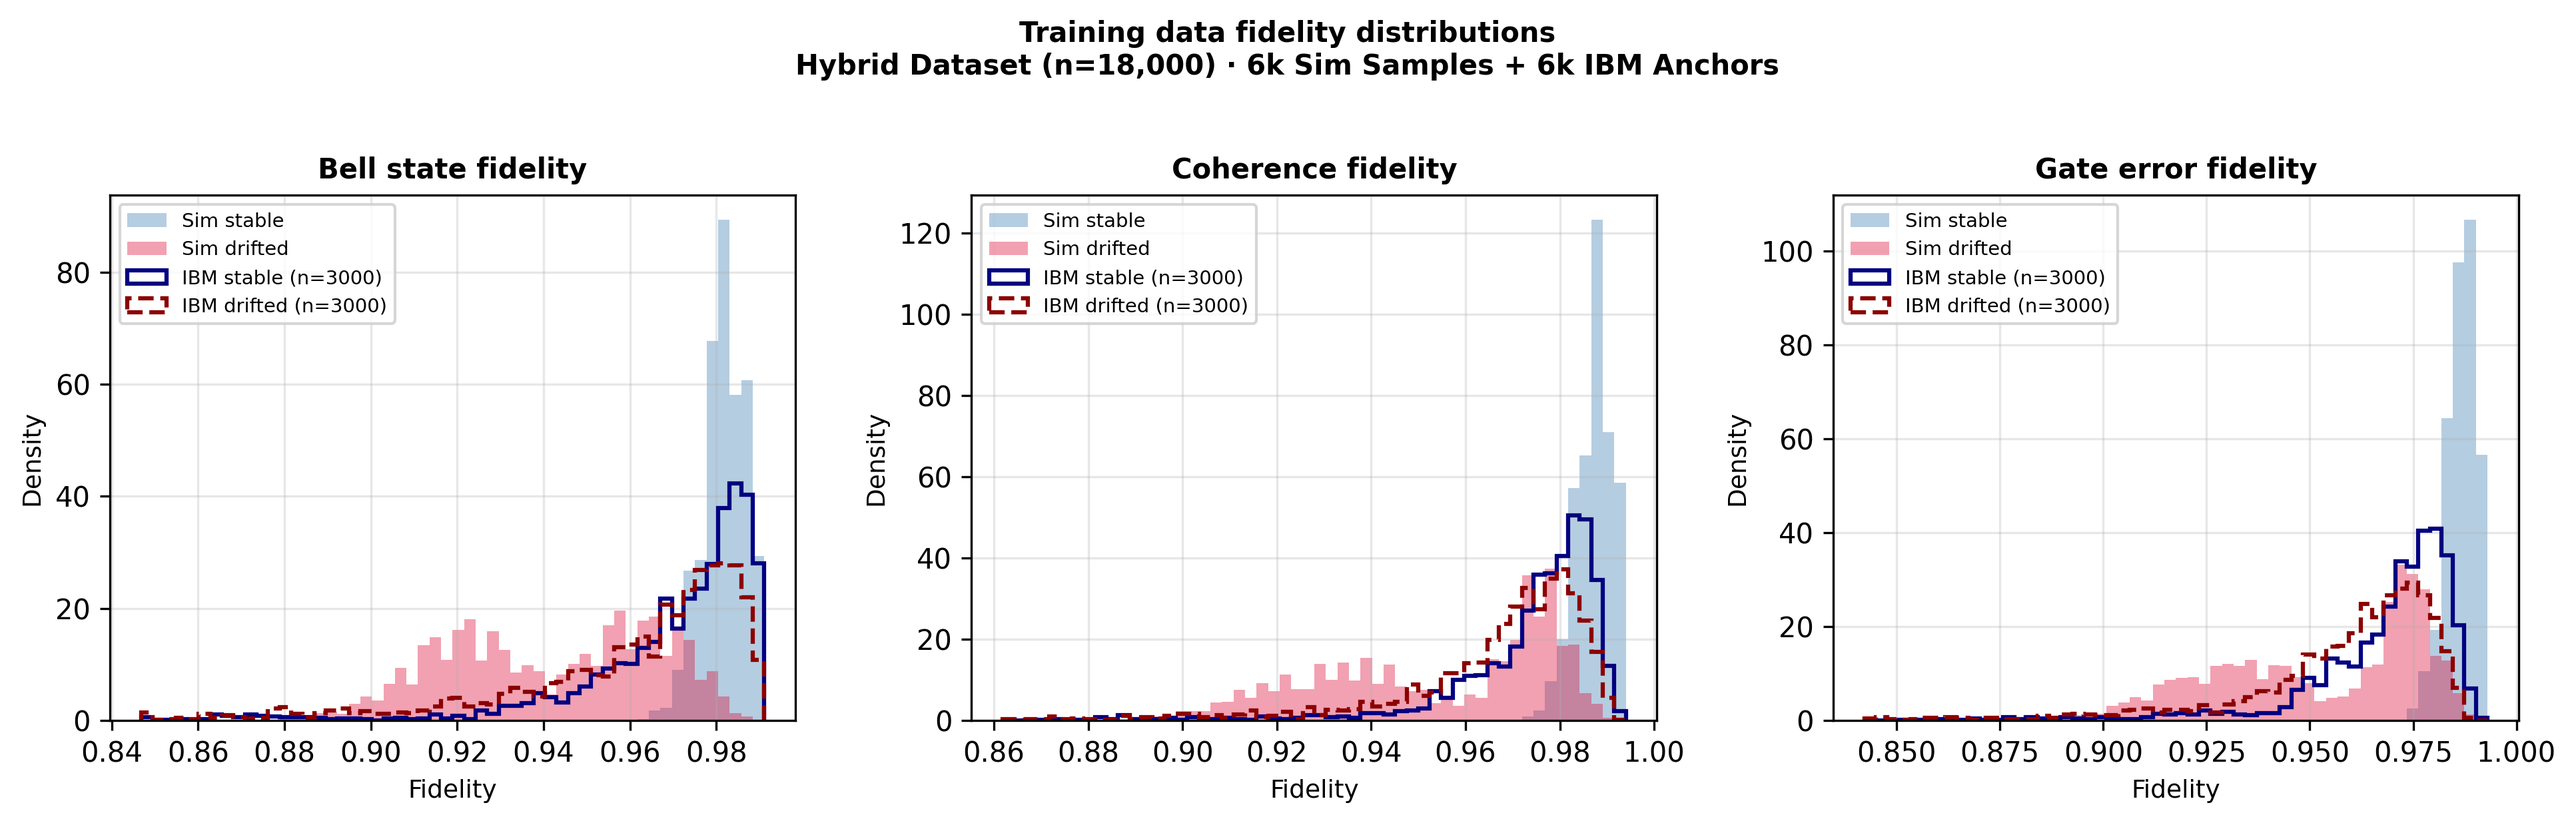
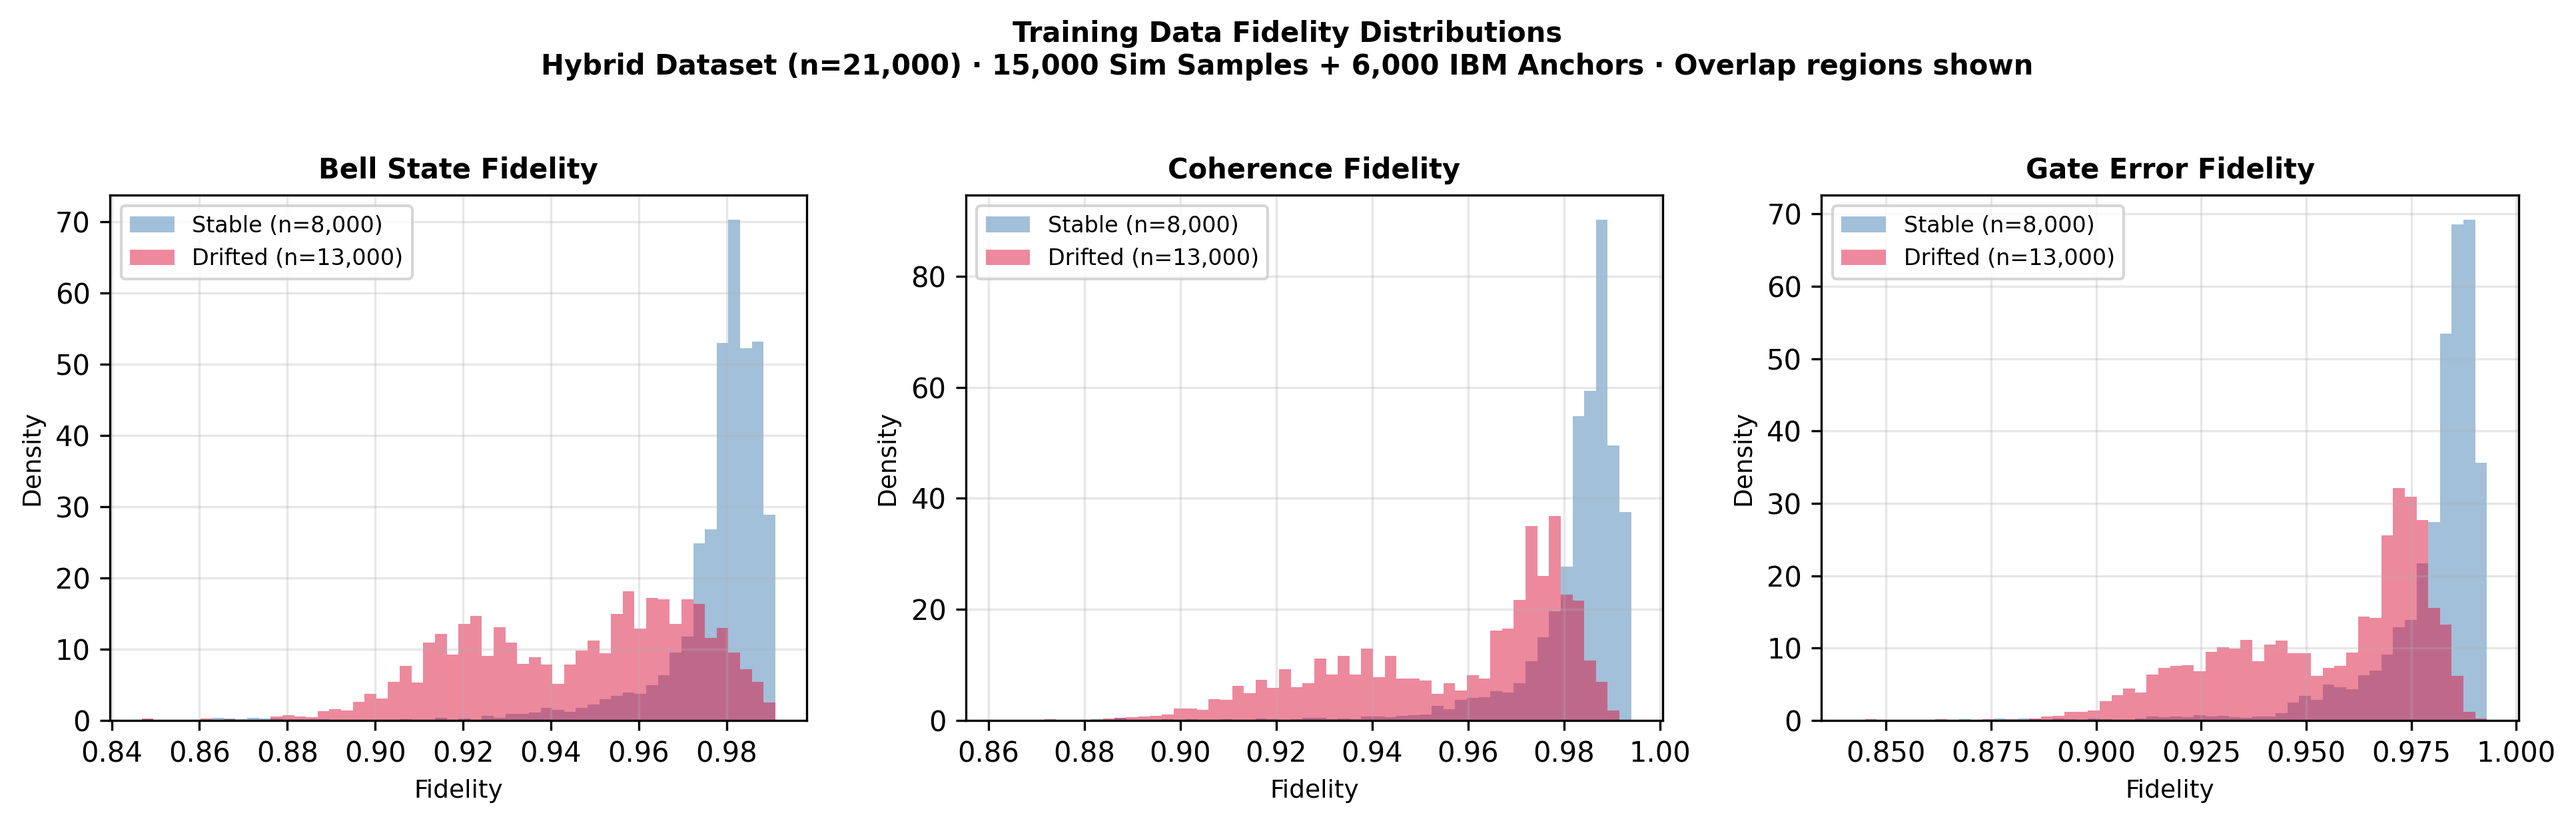
Figures editing

diff --git a/2_label_data.py b/2_label_data.py
@@ -1,17 +1,13 @@
-# 2_label_data.py — Quantum Canary Prototype 2
+# 2_label_data.py — Quantum Canary 2
 # ─────────────────────────────────────────────────────────────────────────────
 # PHYSICS-INFORMED HYBRID DATASET CONSTRUCTION
 #
-# DATASET DESIGN RATIONALE:
+# Stable class  (label=0): sim stable   + IBM extreme stable anchors
+# Drifted class (label=1): sim drifted  + IBM extreme drifted anchors
 #
-#   Stable class  (label=0): 6,000 sim stable + 3,000 IBM extreme stable
-#   Drifted class (label=1): 6,000 sim drifted + 3,000 IBM extreme drifted
-#
-#   Total Dataset: 18,000 rows.
-#
-#   STRATEGY: 
-#     We keep the original 6k/6k simulation samples from 1e_pull_data.py.
-#     We then add 3k IBM snapshots for each class to ground the model.
+# Sim data: 15,000 rows (5k stable, 5k borderline, 5k drifted) from 1e_pull_data.py
+# IBM anchors: up to 3,000 stable + 3,000 drifted from all_backends_raw.csv
+# Total: ~21,000 rows
 # ─────────────────────────────────────────────────────────────────────────────
 
 import pandas as pd
@@ -36,7 +32,7 @@ df['t_sx_ns'] = df['t_sx_ns'].fillna(30.0)
 df['t_x_ns']  = df['t_x_ns'].fillna(30.0)
 df['t_cz_ns'] = df['t_cz_ns'].fillna(75.0)
 df['x_error'] = df['x_error'].fillna(df['sx_error'])
-df.loc[df['cz_error'] > 0.5, 'cz_error'] = np.nan 
+df.loc[df['cz_error'] > 0.5, 'cz_error'] = np.nan
 
 # ── 3. 30-DAY ROLLING BASELINE PER QUBIT ─────────────────────────────────────
 print("Computing 30-day rolling baselines...")
@@ -87,33 +83,31 @@ df['F_coherence'] = ((1-df['sx_error'])**20 * (1-df['readout_error']) * 0.5 * (1
 t_gate = 20.0 * df['t_x_ns']
 df['F_gate'] = ((1-df['x_error'])**20 * (1-df['readout_error']) * np.exp(-t_gate/T1_ns) * np.exp(-t_gate/T2_ns)).clip(0,1)
 
-# ── 7. EXTRACT ANCHORS (3,000 STABLE, 3,000 DRIFTED) ──────────────────────────
+# ── 7. EXTRACT ANCHORS ────────────────────────────────────────────────────────
 N_ANCHORS = 3000
 
-# Get IBM Stable
-ibm_stable_pool = df[df['zone']=='extreme_stable']
-n_s = min(N_ANCHORS, len(ibm_stable_pool))
-ibm_stable_sel = ibm_stable_pool.sort_values('pct_T1_dev').head(n_s).copy()
+ibm_stable_pool  = df[df['zone']=='extreme_stable']
+n_s              = min(N_ANCHORS, len(ibm_stable_pool))
+ibm_stable_sel   = ibm_stable_pool.sort_values('pct_T1_dev').head(n_s).copy()
 ibm_stable_sel['drifted'] = 0
 
-# Get IBM Drifted
 ibm_drifted_pool = df[df['zone']=='extreme_drifted']
-n_d = min(N_ANCHORS, len(ibm_drifted_pool))
-ibm_drifted_sel = ibm_drifted_pool.sort_values('pct_T1_drop', ascending=False).head(n_d).copy()
+n_d              = min(N_ANCHORS, len(ibm_drifted_pool))
+ibm_drifted_sel  = ibm_drifted_pool.sort_values('pct_T1_drop', ascending=False).head(n_d).copy()
 ibm_drifted_sel['drifted'] = 1
 
-# ── 8. LOAD SIMULATION DATA (6,000 EACH - AS GENERATED) ──────────────────────
-sim = pd.read_csv('data/sim_data.csv')
+# ── 8. LOAD SIMULATION DATA ───────────────────────────────────────────────────
+sim   = pd.read_csv('data/sim_data.csv')
 s_sim = sim[sim['drifted']==0].copy()
 d_sim = sim[sim['drifted']==1].copy()
 
 # ── 9. COMBINE (HYBRID DATASET) ───────────────────────────────────────────────
 ibm_feat = ['F_bell', 'F_coherence', 'F_gate', 'drifted']
 combined = pd.concat([
-    s_sim[ibm_feat],             # 6,000 sim stable
-    ibm_stable_sel[ibm_feat],    # 3,000 IBM stable
-    d_sim[ibm_feat],             # 6,000 sim drifted
-    ibm_drifted_sel[ibm_feat]    # 3,000 IBM drifted
+    s_sim[ibm_feat],
+    ibm_stable_sel[ibm_feat],
+    d_sim[ibm_feat],
+    ibm_drifted_sel[ibm_feat]
 ], ignore_index=True)
 
 combined = combined.sample(frac=1, random_state=42).reset_index(drop=True)
@@ -122,39 +116,69 @@ combined = combined.sample(frac=1, random_state=42).reset_index(drop=True)
 combined.to_csv('data/features_data.csv', index=False)
 df.to_csv('data/ibm_calibration_labeled.csv', index=False)
 
-train_idx, temp_idx = train_test_split(np.arange(len(combined)), test_size=0.3, stratify=combined['drifted'], random_state=42)
-val_idx, test_idx   = train_test_split(temp_idx, test_size=0.5, stratify=combined.iloc[temp_idx]['drifted'], random_state=42)
+train_idx, temp_idx = train_test_split(
+    np.arange(len(combined)), test_size=0.3,
+    stratify=combined['drifted'], random_state=42
+)
+val_idx, test_idx = train_test_split(
+    temp_idx, test_size=0.5,
+    stratify=combined.iloc[temp_idx]['drifted'], random_state=42
+)
 with open('data/split_indices.json', 'w') as f:
-    json.dump({"train": train_idx.tolist(), "val": val_idx.tolist(), "test": test_idx.tolist()}, f)
+    json.dump({"train": train_idx.tolist(),
+               "val":   val_idx.tolist(),
+               "test":  test_idx.tolist()}, f)
 
 # ── 11. FIGURES ───────────────────────────────────────────────────────────────
 print("Generating figures...")
 
+# Merge sim + IBM anchors into unified stable/drifted pools
+all_stable  = pd.concat([s_sim[ibm_feat],       ibm_stable_sel[ibm_feat]],  ignore_index=True)
+all_drifted = pd.concat([d_sim[ibm_feat],        ibm_drifted_sel[ibm_feat]], ignore_index=True)
+all_stable  = all_stable[all_stable['drifted']  == 0]
+all_drifted = all_drifted[all_drifted['drifted'] == 1]
+
+n_stable  = len(all_stable)
+n_drifted = len(all_drifted)
+n_total   = len(combined)
+
 fig, axes = plt.subplots(1, 3, figsize=(13, 4))
 feats = ['F_bell', 'F_coherence', 'F_gate']
-flabs = ['Bell state fidelity', 'Coherence fidelity', 'Gate error fidelity']
+flabs = ['Bell State Fidelity', 'Coherence Fidelity', 'Gate Error Fidelity']
 
 for ax, feat, lab in zip(axes, feats, flabs):
-    bins = np.linspace(combined[feat].quantile(0.01), combined[feat].quantile(0.99), 55)
-    
-    ax.hist(s_sim[feat], bins=bins, alpha=0.4, color='steelblue', label='Sim stable', density=True)
-    ax.hist(d_sim[feat], bins=bins, alpha=0.4, color='crimson', label='Sim drifted', density=True)
-    
-    ax.hist(ibm_stable_sel[feat], bins=bins, color='navy', label=f'IBM stable (n={len(ibm_stable_sel)})', 
-            density=True, histtype='step', linewidth=1.5)
-    ax.hist(ibm_drifted_sel[feat], bins=bins, color='darkred', label=f'IBM drifted (n={len(ibm_drifted_sel)})', 
-            density=True, histtype='step', linewidth=1.5, linestyle='--')
+    bins = np.linspace(combined[feat].quantile(0.01),
+                       combined[feat].quantile(0.99), 55)
+
+    # Stable — light blue filled
+    ax.hist(all_stable[feat],  bins=bins, alpha=0.5, color='steelblue',
+            density=True, label=f'Stable (n={n_stable:,})')
+
+    # Drifted — light red filled
+    ax.hist(all_drifted[feat], bins=bins, alpha=0.5, color='crimson',
+            density=True, label=f'Drifted (n={n_drifted:,})')
 
     ax.set_title(lab, fontsize=10, fontweight='bold')
-    ax.set_xlabel('Fidelity', fontsize=9); ax.set_ylabel('Density', fontsize=9)
-    ax.legend(fontsize=7); ax.grid(alpha=0.3)
+    ax.set_xlabel('Fidelity', fontsize=9)
+    ax.set_ylabel('Density',  fontsize=9)
+    ax.legend(fontsize=8)
+    ax.grid(alpha=0.3)
 
-plt.suptitle('Training data fidelity distributions\nHybrid Dataset (n=18,000) · 6k Sim Samples + 6k IBM Anchors', fontsize=10, fontweight='bold', y=1.02)
+n_sim_total = len(sim)
+n_ibm_total = n_s + n_d
+plt.suptitle(
+    f'Training Data Fidelity Distributions\n'
+    f'Hybrid Dataset (n={n_total:,}) · {n_sim_total:,} Sim Samples + {n_ibm_total:,} IBM Anchors '
+    f'· Overlap regions shown',
+    fontsize=10, fontweight='bold', y=1.02
+)
 plt.tight_layout()
 plt.savefig('figures/fig_feature_distributions.png', dpi=300, bbox_inches='tight')
 plt.close()
+print("  ✓ figures/fig_feature_distributions.png")
 
 print(f"\nLabeling Complete.")
-print(f"  Stable  : {len(s_sim)} Sim + {len(ibm_stable_sel)} IBM")
-print(f"  Drifted : {len(d_sim)} Sim + {len(ibm_drifted_sel)} IBM")
-print(f"  Total   : {len(combined):,}")
+print(f"  Stable  : {len(s_sim):,} Sim + {len(ibm_stable_sel):,} IBM = {n_stable:,}")
+print(f"  Drifted : {len(d_sim):,} Sim + {len(ibm_drifted_sel):,} IBM = {n_drifted:,}")
+print(f"  Total   : {n_total:,}")
+print(f"\n  NEXT: python 3_validate_data.py")

diff --git a/6_evaluate.py b/6_evaluate.py
@@ -150,7 +150,7 @@ print("  ✓ figures/fig_confusion_matrix.png")
 
 # ── 8. AUC COMPARISON ─────────────────────────────────────────────────────────
 fig, ax = plt.subplots(figsize=(5, 4))
-models_ = ['Threshold\nClassifier', 'Neural Canary\nMLP Ensemble']
+models_ = ['Threshold\nClassifier', 'Quantum Canary\nMLP Ensemble']
 aucs_   = [threshold_auc, auc]
 colors_ = ['darkorange', 'crimson']
 bars    = ax.bar(models_, aucs_, color=colors_,
